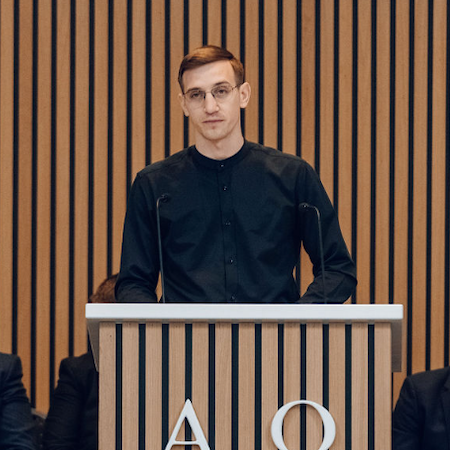
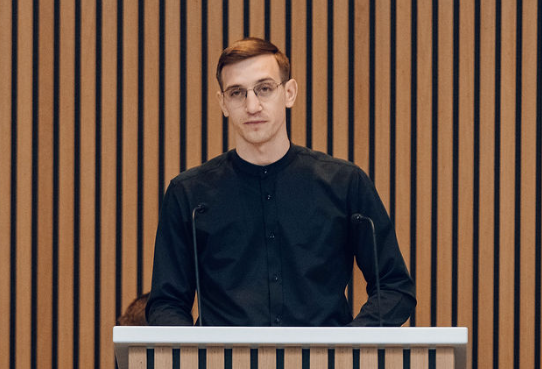
images

diff --git a/Newsletter template/newsletter_week_20-04_27-04.html b/Newsletter template/newsletter_week_20-04_27-04.html
@@ -93,8 +93,8 @@
                                             <tr>
                                                 <td>
                                                     <img src="https://www.betheldworp.be/images/events/NicuIurian.png"
-                                                        width="266" height="266"
-                                                        style="display:block;width:266px;height:266px;object-fit:cover;" />
+                                                        width="266" height="204"
+                                                        style="display:block;width:266px;height:204px;object-fit:cover;" />
                                                 </td>
                                             </tr>
                                             <tr>
@@ -120,8 +120,8 @@
                                                         <tr>
                                                             <td>
                                                                 <img src="https://www.betheldworp.be/images/events/DragosCroitor.png"
-                                                                    width="266" height="266"
-                                                                    style="display:block;width:266px;height:266px;object-fit:cover;" />
+                                                                    width="266" height="204"
+                                                                    style="display:block;width:266px;height:204px;object-fit:cover;" />
                                                             </td>
                                                         </tr>
                                                         <tr>
@@ -138,8 +138,8 @@
                                                         <tr>
                                                             <td>
                                                                 <img src="https://www.betheldworp.be/images/events/CornelZagan.png"
-                                                                    width="266" height="266"
-                                                                    style="display:block;width:266px;height:266px;object-fit:cover;"
+                                                                    width="266" height="204"
+                                                                    style="display:block;width:266px;height:204px;object-fit:cover;"
                                                                     onerror="this.src='/images/events/CornelZagan.png'" />
                                                             </td>
                                                         </tr>
